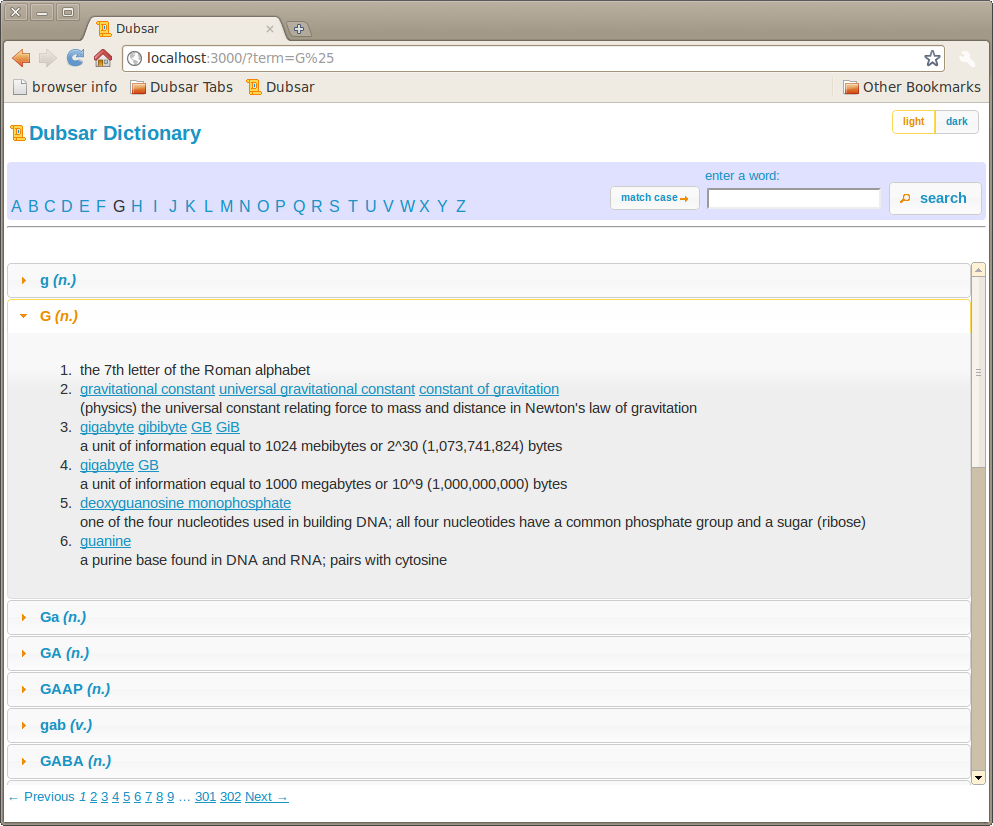
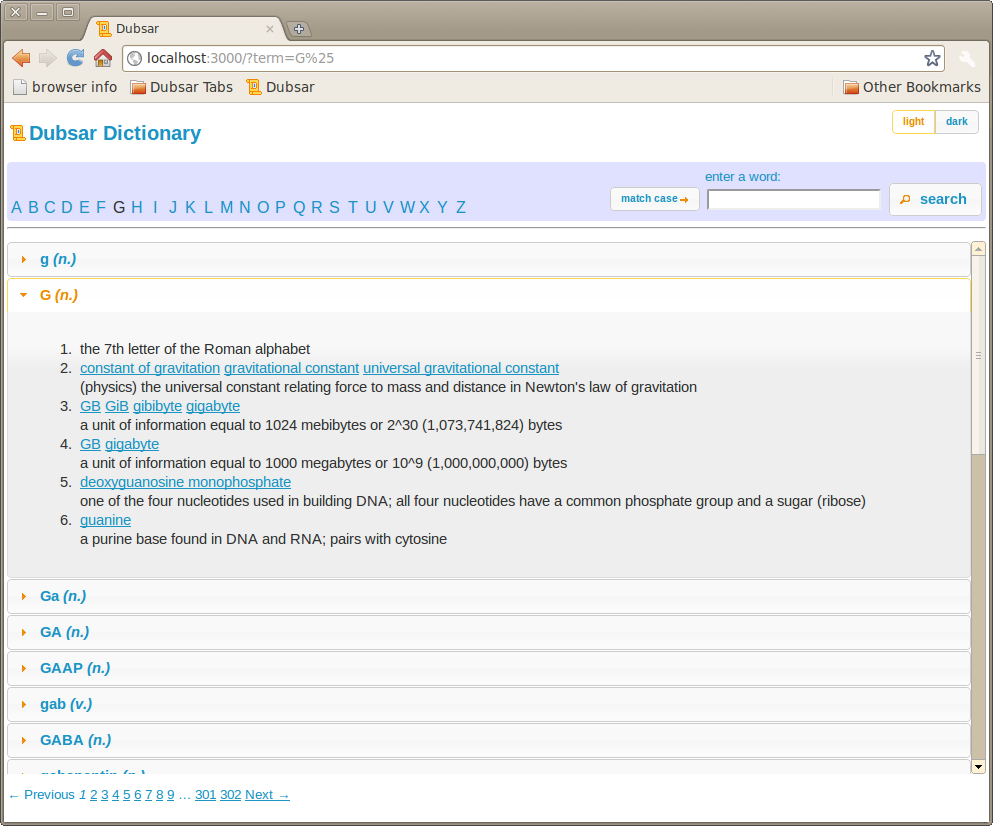
better margins

diff --git a/public/stylesheets/common.css b/public/stylesheets/common.css
@@ -54,7 +54,7 @@ label {
   bottom: 5ex;
   left: 0;
   right: 0;
-  margin: 0.5ex;
+  margin: 1.9ex 0.5ex;
 }
 
 .pagination {
